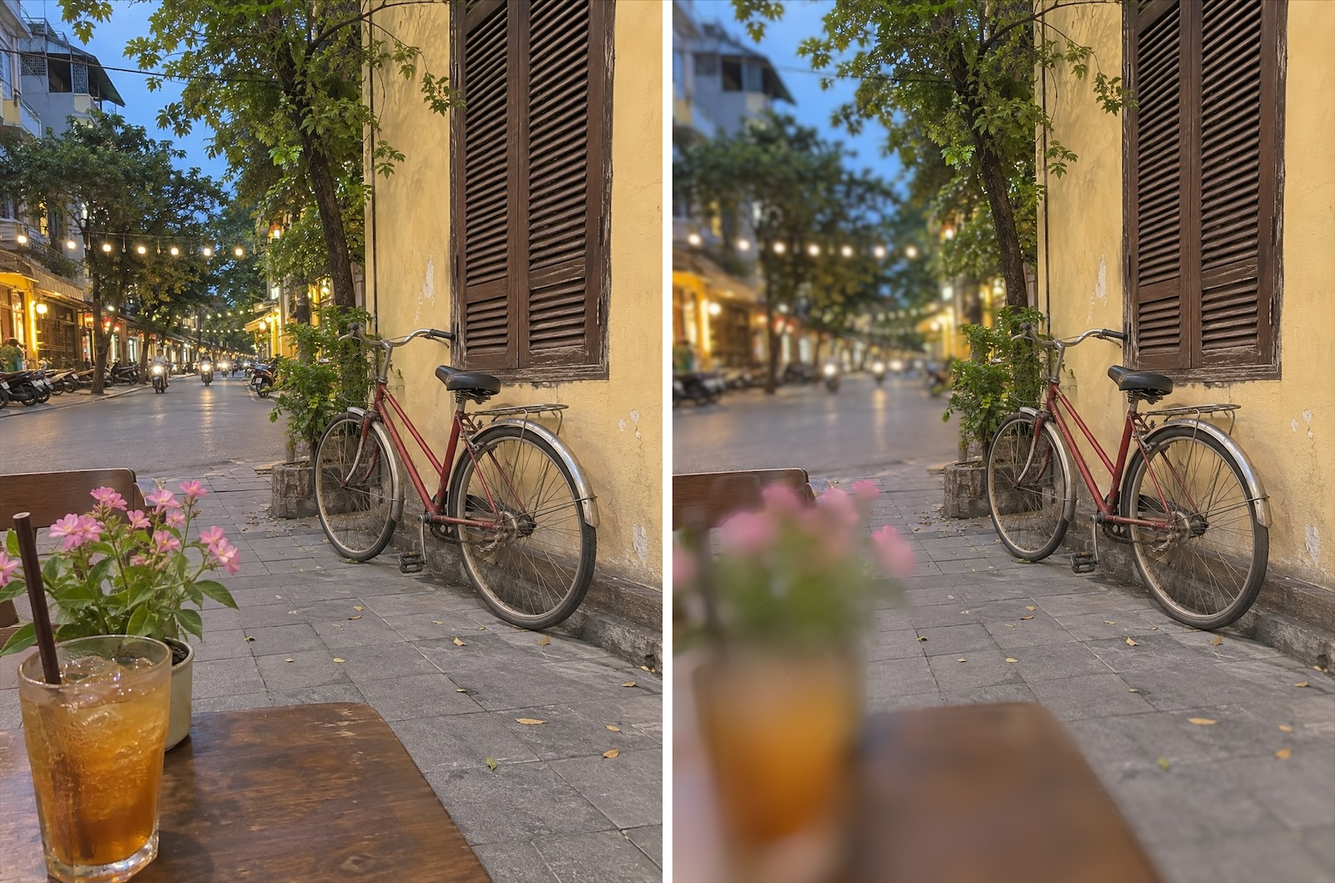
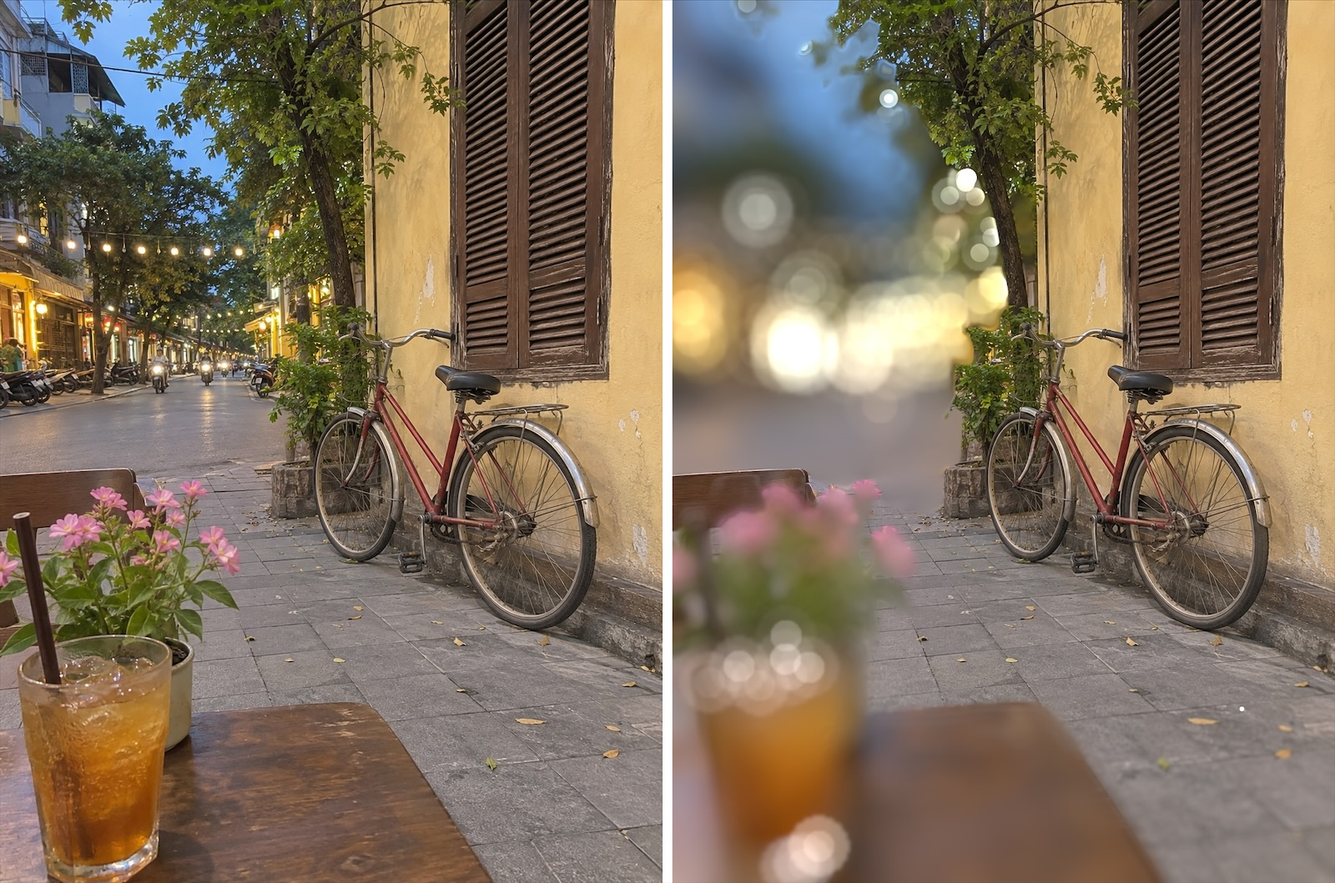
feat(diary): Lens Blur demo re-rendered with the stronger background and bokeh discs (#46)
The Lab and Lens Blur entry's café render now shows the far-side fix and
the warm bokeh discs. A second image compares the street lights at Bokeh
0 % and 100 %. The "tuning is next" note becomes two paragraphs on the
background fix, the lamps and the Bokeh slider. The new rows carry English
in the Vietnamese column until Vietnamese resumes.

Changed region(s): [[0.5, 0.0, 0.7812, 0.4674], [0.5, 0.6856, 0.625, 0.8102], [0.5625, 0.9037, 0.6562, 1.0]]

diff --git a/vi/diary/index.html b/vi/diary/index.html
@@ -56,7 +56,7 @@
 <section class="chapter" id="viewfinder-share" aria-labelledby="viewfinder-share-h"><h2 id="viewfinder-share-h"><span class="num">11</span>Khung ngắm, xem trước và chia sẻ</h2><article class="entry" id="2026-09-26-viewfinder-and-share"><p class="date"><time datetime="2026-09-26">26/9/2026</time></p><h3><a href="#2026-09-26-viewfinder-and-share">Một khung ngắm không cần kính, và chia sẻ kèm thông số</a></h3><p>Khung ngắm bỏ các lớp phủ gradient; giờ mỗi thông số tự mang bóng đổ của mình. Các góc ngắm ánh lên màu hổ phách khi chụp một tấm, rồi lắng xuống. Trong Cine chúng giữ màu hổ phách suốt lần quay và một viền đỏ chạy quanh khung; cầm ngang máy, một dải đầu với tên phim và nút REC chạy dọc mép trên.</p><p>Màn xem trước ảnh in công thức và màu phim lên tấm ảnh, với năm con số dọc mép dưới: ISO, cân bằng trắng, DR, vùng sáng và vùng tối.</p><p>Chia sẻ giờ có ba lựa chọn: <strong>Chỉ ảnh</strong>, <strong>Thẻ</strong> (tấm ảnh trên dải nền tối cùng công thức, màu phim và năm con số ấy) và <strong>Phủ chữ</strong> (nhãn của màn xem trước in thẳng vào ảnh). Thẻ và Phủ chữ đều bỏ dữ liệu vị trí trước khi chia sẻ.</p><figure class="portrait"><img src="/diary/img/15-share-card.jpg" alt="Ảnh một cô gái băng qua đường bên một cửa tiệm nhỏ, đặt trên tấm thẻ tối màu. Bên dưới: City Neg 400, Lost Summer Neg, và một hàng ghi ISO —, WB AWB R+2 B−3, DR 400, Highlight −2, Shadow +1.5." width="760" height="1560" loading="lazy" decoding="async"><figcaption>Một tấm Thẻ, vẽ theo bố cục của ứng dụng từ một bức ảnh tạo bằng máy, không phải ảnh chụp, với City Neg 400. Bức ảnh không có dữ liệu máy ảnh, nên ISO hiện dấu gạch, đúng như ứng dụng hiển thị.</figcaption></figure></article></section>
 <section class="chapter" id="film-roll" aria-labelledby="film-roll-h"><h2 id="film-roll-h"><span class="num">12</span>Cuộn phim</h2><p class="intro">Chế độ chụp thứ ba: lắp một màu phim, chụp cả cuộn mà không xem, rồi tráng.</p><article class="entry" id="2026-09-27-film-roll-mode"><p class="date"><time datetime="2026-09-27">27/9/2026</time></p><h3><a href="#2026-09-27-film-roll-mode">Film Roll: lắp phim, chụp mà không xem trước, rồi tráng</a></h3><p>Cuộn phim là chế độ thứ ba trên thanh chọn, cạnh Ảnh và Cine. Bạn chọn một màu phim (các màu miễn phí, hoặc mọi màu khi đã “Mở khóa tất cả”) và một cuộn 12, 24 hoặc 36 kiểu. Cuộn bị khóa vào màu phim đó cho đến khi tráng xong. Trong lúc chụp bạn chỉ thấy âm bản hoặc không thấy gì cả, và ô ảnh vừa chụp chỉ chạy hình cuộn phim lên kiểu.</p><p>Chụp hết cuộn thì bạn tráng nó. Bạn chọn viền (không, phong sương hoặc bản quét) và, nếu thích, dấu ngày lấy từ giờ chụp của từng kiểu. Dấu được vẽ bằng chữ số bảy đoạn màu hổ phách với quầng mờ, đúng cách máy compact ngày xưa in, theo bốn định dạng như <code>'26 9 27</code> hay <code>27 9 '26 14:32</code>.</p><p>Mọi cuộn đều tráng dưới một công thức lab duy nhất, chung cho mọi màu phim, chỉnh theo những gì một bản quét lab tốt sẽ cho:</p><ul><li>Màu +3 với colour chrome yếu và colour chrome blue yếu (phim đen trắng thì không có cả ba)</li><li>Vùng sáng −1, Vùng tối +0.5</li><li>Dải tương phản Tự động tối đa DR200, quyết theo từng kiểu</li><li>AWB không dịch màu, Độ trong −1, Độ nét −1</li><li>Hạt nhẹ và mịn (25 với phim màu, 30 với đen trắng), quầng sáng 10 và tối góc 10</li></ul><p>Ảnh trong cuộn chỉ sống trong cuộn của nó: chúng đứng ngoài lưới Ảnh và các con số đếm, còn chia sẻ dạng Thẻ hay Phủ chữ in tên phim và số kiểu thay cho thông số. Bản phát hành này cũng thêm chọn nhiều ảnh trong Ảnh, để lưu, chia sẻ hay xóa nhiều tấm một lần.</p><figure><img src="/diary/img/17-roll-contact-toffee.jpg" alt="Bảng ảnh mười hai kiểu trên Toffee Neg: hồ giữa núi đá vôi, một con thuyền neo, chiếc xuồng gỗ, một con đường, và bến lát gạch, mỗi tấm có dấu ngày màu hổ phách." width="1600" height="1100" loading="lazy" decoding="async"><figcaption>Một cuộn 12 kiểu Toffee Neg thật, chụp bằng điện thoại của mình bên hồ và tráng với viền phong sương cùng dấu ngày.</figcaption></figure><figure><img src="/diary/img/18-roll-dusk-prints.jpg" alt="Bốn tấm ảnh từ một cuộn Dusk: hồ nước dưới mái lá, chiếc phà cắm cờ đỏ, những nhà nổi dưới chân núi, và ngôi làng ấy nhìn qua vòm cây, mỗi tấm có dấu ngày." width="1600" height="1202" loading="lazy" decoding="async"><figcaption>Bốn kiểu từ một cuộn Dusk, tráng với viền phong sương và dấu <code>27 9 '26</code>.</figcaption></figure></article><article class="entry" id="2026-09-27-roll-end"><p class="date"><time datetime="2026-09-27">27/9/2026</time></p><h3><a href="#2026-09-27-roll-end">Đoạn cuối của một cuộn phim</a></h3><p>Ở ba kiểu cuối của cuộn (10–12, 22–24 hay 34–36), bộ đếm cạnh nút chụp chuyển hổ phách và nhấp nháy sau mỗi tấm. Có một tiếng click nhẹ khi bước vào ba kiểu cuối và một tiếng chắc hơn ở kiểu cuối cùng. Ở kiểu cuối, dòng chữ dưới con số ghi <strong>LAST FRAME</strong>, và phim lên kiểu chậm hơn, như thể cuộn phim đang căng dần. Không gì chặn việc chụp cả.</p><p>Chụp xong kiểu cuối, dải phim cuốn ngược vào đúng vỏ cuộn của màu phim ấy, chiếc vỏ xoay rồi lắng lại, và dòng <strong>Roll complete</strong> hiện dần cùng nút Tráng phim. Nó chỉ chạy một lần mỗi cuộn, và một cú chạm là bỏ qua được.</p></article><article class="entry" id="2026-09-27-strong-push-films"><p class="date"><time datetime="2026-09-27">27/9/2026</time></p><h3><a href="#2026-09-27-strong-push-films">Năm màu phim đẩy mạnh</a></h3><p>Năm phim âm bản màu mới đến cùng chế độ Cuộn phim. Như Olive Neg, mỗi cái nhuộm cả vùng tối, vùng trung và vùng sáng ở cường độ tối đa, trong khi phần lớn các màu phim chỉ nhuộm hai đầu.</p><div class="tablewrap"><table><thead><tr><th scope="col">Màu phim</th><th scope="col">ISO</th><th scope="col">Chất màu</th></tr></thead><tbody><tr><td>Lantern Neg</td><td>800</td><td>Vùng tối và trung ngả xanh ngọc-cyan, đèn và vùng sáng hổ phách, da vàng óng</td></tr><tr><td>Toffee Neg</td><td>200</td><td>Vùng trung màu kẹo bơ, vùng tối sô-cô-la, vùng sáng kem; lá vàng đất, trời xanh ngọc trầm</td></tr><tr><td>Guava Neg</td><td>400</td><td>Hồng-rose phủ mọi tông, xanh lá kaki, trời oải hương, đỏ thẫm</td></tr><tr><td>Ink Neg</td><td>400</td><td>Vùng tối và trung navy, vùng sáng kem, sắc đỏ ấm nổi trên nền xanh</td></tr><tr><td>Pollen Neg</td><td>200</td><td>Vàng nắng phủ mọi tông, tán lá xanh chanh, trời xanh thẫm, bóng tối mở</td></tr></tbody></table></div><p>Chúng chưa có công thức nào, nên danh sách Phim giờ hiện đủ mọi màu phim, không chỉ những cái đã có công thức. Mỗi cái vẫn chụp riêng được, lắp vào cuộn được, hoặc dùng để tạo công thức.</p><figure class="portrait"><img src="/diary/img/19-strong-films-street.jpg" alt="Cùng một con phố ven cảng với những ngôi nhà vàng, lặp lại bảy lần: không có phim, Olive Neg, Lantern Neg, Toffee Neg, Guava Neg, Ink Neg và Pollen Neg." width="1600" height="2140" loading="lazy" decoding="async"><figcaption>Một con phố ven cảng tạo bằng máy, không phải ảnh chụp, với không có phim, Olive Neg để đối chiếu, và năm màu phim mới ở cường độ tối đa.</figcaption></figure></article><article class="entry" id="2026-09-28-rewind-and-memory"><p class="date"><time datetime="2026-09-28">28/9/2026</time></p><h3><a href="#2026-09-28-rewind-and-memory">36 kiểu chụp thì ổn. Đến lúc tráng thì không.</a></h3><p>Cú tua phim giờ theo độ dài của cuộn: 1,8 giây cho 12 kiểu, 2,8 cho 24 và 3,6 cho 36, nhịp chậm–nhanh–chậm. Mỗi kiểu tua ngược cho một tiếng tách quay nhẹ, kèm tiếng gõ nhỏ vào vỏ cuộn. Vỏ cuộn giờ to hơn và nằm trên một tấm nền mềm với quầng hổ phách mờ.</p><p>Cú sửa quan trọng hơn nằm bên dưới. Tráng một cuộn 24 hay 36 kiểu làm app sập sau khoảng 15 kiểu. Mỗi kiểu dựng hai lần (bản xem trước, rồi bản đủ phân giải) trên các hàng đợi tuần tự chỉ trả buffer tạm khi chúng rảnh — mà trong lúc tráng cả cuộn thì chúng chẳng bao giờ rảnh. Khoảng 150 MB mỗi kiểu ProRAW chất đống cho đến khi iOS giết app. Giờ cả hai hàng đợi trả bộ nhớ sau từng kiểu.</p><div class="tablewrap"><table><thead><tr><th scope="col">Số kiểu đã tráng</th><th scope="col">0</th><th scope="col">6</th><th scope="col">12</th><th scope="col">15</th><th scope="col">36</th></tr></thead><tbody><tr><td>Trước</td><td>554 MB</td><td>1.5 GB</td><td>2.1 GB</td><td>2,3 GB, còn tăng</td><td>tráng được 35 / 36</td></tr><tr><td>Sau</td><td>552 MB</td><td>333 MB</td><td>208 MB</td><td>247 MB</td><td>đi ngang ~210–260 MB, đủ 36 / 36</td></tr></tbody></table></div><p class="note">Dấu chân bộ nhớ khi từng kiểu hiện ra, từ một bài thử tráng 36 kiểu. Những cuộn 24 và 36 kiểu thật giờ tráng được trên iPhone 16 Pro.</p><figure><img src="/diary/img/20-rewind-36.jpg" alt="Bốn chặng của dải phim cuốn vào vỏ cuộn: dải đầy đủ ở giây 0, cuốn một phần tư ở giây 1.2, cuốn gần hết ở giây 2.4, và chỉ còn chiếc vỏ đã xoay ở giây 3.6." width="1600" height="600" loading="lazy" decoding="async"><figcaption>Nhịp của một cú tua 36 kiểu, từ bản dựng thử làm trước khi vỏ cuộn được phóng to: 9 trên 36 tiếng tách ở giây 1,2, 26 ở giây 2,4, đủ 36 ở giây 3,6.</figcaption></figure></article></section>
 <section class="chapter" id="bracketing" aria-labelledby="bracketing-h"><h2 id="bracketing-h"><span class="num">13</span>Bracketing</h2><p class="intro">One press of the shutter, several photos of the same moment.</p><article class="entry" id="2026-11-09-bkt-one-press-three-photos"><p class="date"><time datetime="2026-11-09">9/11/2026</time></p><h3><a href="#2026-11-09-bkt-one-press-three-photos">BKT: one press, three photos</a></h3><p>Cameras have long had bracketing: one press of the shutter saves several versions of the same moment. Fonder now has its own in Still mode, called BKT. There are four kinds, picked on a new Bracketing page.</p><div class="tablewrap"><table><thead><tr><th scope="col">Kind</th><th scope="col">What changes across the three photos</th></tr></thead><tbody><tr><td>Recipe</td><td>The recipe: the one in the viewfinder and two picked on the page. One exposure, developed three ways.</td></tr><tr><td>AE</td><td>The exposure: three real exposures a stop apart, at −1, 0 and +1 EV.</td></tr><tr><td>ISO</td><td>The noise: the same brightness, with the ISO halved, kept and doubled and the shutter speed changed to match.</td></tr><tr><td>DR</td><td>The dynamic range: one exposure developed at DR100, DR200 and DR400, to choose afterwards how much highlight detail to keep.</td></tr></tbody></table></div><p>Recipe and DR bracketing fire the sensor once, so their three photos come from one original. Each photo still has its own file, but on the iPhone's storage the copies share the first one's data, so a bracketed moment takes one photo's worth of space. AE and ISO take three real exposures in one burst, with the flash off.</p><p>On the DR page, each tile is the current recipe rendered live at that setting, with red stripes where the photo would have no highlight detail left. BKT is part of the paid unlock, and works in Still only.</p></article></section>
-<section class="chapter" id="lab" aria-labelledby="lab-h"><h2 id="lab-h"><span class="num">14</span>Lab</h2><p class="intro">The editor's space for edits that go further than a recipe.</p><article class="entry" id="2026-11-17-lab-and-lens-blur"><p class="date"><time datetime="2026-11-17">17/11/2026</time></p><h3><a href="#2026-11-17-lab-and-lens-blur">Lab, and a lens blur from depth</a></h3><p>The editor's Adjust panel became <strong>Lab</strong>, with four tabs: Lights, Colour, Lens and Darkroom. It's for edits that go further than a recipe, and it's free. Two tools join it in this round:</p><ul><li><strong>HSL</strong>, in Colour: hue, saturation and luminance for eight colours. It works after the film's own colour, so it adjusts the look rather than fighting it.</li><li><strong>Curves</strong>, in Lights: a Master curve and red, green and blue curves, over a histogram of the edit. A black-and-white film offers the Master curve only.</li><li>Both are part of the recipe. Save as recipe keeps them, recipe text shares them, and the camera renders them too.</li></ul><p>The third tool is <strong>Lens Blur</strong>, in Lens. The background, the foreground or both fall away, as if shot with a wide-open lens. To do that it needs to know how far away each part of the picture is, and a photo carries no depth, so a small depth model runs on the phone. It takes about three and a half seconds to load on the Neural Engine, then 23 ms per photo; until it's loaded, a slower copy on the graphics chip answers in about half a second. The depth map is kept beside the photo, so the model runs once per photo.</p><p>Tapping or dragging on the photo chooses what stays sharp: the focus is read from the patch under the box. Then come the aperture, from f/1.4 to f/16, how deep the sharp band is, how much the front and the back blur, and how soft the edge between them is. A Focus zone view tints what's sharp green, what's in front red and what's behind blue.</p><p>The blur is built from Core Image's own filters. Behind the focus, each pixel is averaged only from what is behind it, so a sharp subject doesn't glow into its background. In front, what the foreground hides is filled in from around it first, so a blurred cup's edge spreads both ways over the table, as a lens draws it. Lens Blur is the one Pro tool in Lab.</p><p class="note">The model gives relative depth, which squeezes everything far away into a narrow range, so a distant street blurs less than it would through a real f/1.4 lens. Tuning that is next.</p><figure><img src="/diary/img/24-lens-blur.jpg" alt="A café table at dusk with a glass of iced tea and pink flowers, a red bicycle against a yellow wall, and a lit street behind, twice: as it came on the left, and with Lens Blur on the right." width="1600" height="1059" loading="lazy" decoding="async"><figcaption>A generated street, not a photograph: as it came on the left, and on the right with Lens Blur at f/1.4, focused on the bicycle, rendered by the app's own blur and depth model.</figcaption></figure></article></section>
+<section class="chapter" id="lab" aria-labelledby="lab-h"><h2 id="lab-h"><span class="num">14</span>Lab</h2><p class="intro">The editor's space for edits that go further than a recipe.</p><article class="entry" id="2026-11-17-lab-and-lens-blur"><p class="date"><time datetime="2026-11-17">17/11/2026</time></p><h3><a href="#2026-11-17-lab-and-lens-blur">Lab, and a lens blur from depth</a></h3><p>The editor's Adjust panel became <strong>Lab</strong>, with four tabs: Lights, Colour, Lens and Darkroom. It's for edits that go further than a recipe, and it's free. Two tools join it in this round:</p><ul><li><strong>HSL</strong>, in Colour: hue, saturation and luminance for eight colours. It works after the film's own colour, so it adjusts the look rather than fighting it.</li><li><strong>Curves</strong>, in Lights: a Master curve and red, green and blue curves, over a histogram of the edit. A black-and-white film offers the Master curve only.</li><li>Both are part of the recipe. Save as recipe keeps them, recipe text shares them, and the camera renders them too.</li></ul><p>The third tool is <strong>Lens Blur</strong>, in Lens. The background, the foreground or both fall away, as if shot with a wide-open lens. To do that it needs to know how far away each part of the picture is, and a photo carries no depth, so a small depth model runs on the phone. It takes about three and a half seconds to load on the Neural Engine, then 23 ms per photo; until it's loaded, a slower copy on the graphics chip answers in about half a second. The depth map is kept beside the photo, so the model runs once per photo.</p><p>Tapping or dragging on the photo chooses what stays sharp: the focus is read from the patch under the box. Then come the aperture, from f/1.4 to f/16, how deep the sharp band is, how much the front and the back blur, and how soft the edge between them is. A Focus zone view tints what's sharp green, what's in front red and what's behind blue.</p><p>The blur is built from Core Image's own filters. Behind the focus, each pixel is averaged only from what is behind it, so a sharp subject doesn't glow into its background. In front, what the foreground hides is filled in from around it first, so a blurred cup's edge spreads both ways over the table, as a lens draws it. Lens Blur is the one Pro tool in Lab.</p><p>Two fixes came the same evening, from trying it on a café photo. The depth map is relative, stretched per photo, so a glass of tea in the corner took most of its range and left the street behind the bicycle a tenth of the blur. The background is now measured from the focus, so it blurs the same whether or not something stands in front.</p><p>Lamps were the other. A photo stores light only up to white, so a bulb is a few clipped pixels, and spread over a wide disc it disappeared. Small highlights near white now get back the brightness clipping took from them, with the colour of their glow, before the blur, so they make warm discs. A <strong>Bokeh</strong> slider sets how bright those discs are, from none to double.</p><figure><img src="/diary/img/24-lens-blur.jpg" alt="A café table at dusk with a glass of iced tea and pink flowers, a red bicycle against a yellow wall, and a lit street behind, twice: as it came on the left, and with Lens Blur on the right." width="1600" height="1059" loading="lazy" decoding="async"><figcaption>A generated street, not a photograph: as it came on the left, and on the right with Lens Blur at f/1.4, focused on the bicycle, rendered by the app's own blur and depth model.</figcaption></figure><figure><img src="/diary/img/25-lens-blur-bokeh.jpg" alt="The string lights of the same street behind the tree, blurred twice: on the left as soft smudges, on the right as round, warm discs." width="1600" height="542" loading="lazy" decoding="async"><figcaption>The lights behind the bicycle at f/1.4: Bokeh at 0 % on the left, where they wash out, and at 100 % on the right.</figcaption></figure></article></section>
 <section class="chapter" id="website" aria-labelledby="website-h"><h2 id="website-h"><span class="num">15</span>Trang web</h2><article class="entry" id="2026-09-28-homepage"><p class="date"><time datetime="2026-09-28">28/9/2026</time></p><h3><a href="#2026-09-28-homepage">Trang chủ mới</a></h3><p>fondercam.online có trang chủ mới, bằng tiếng Anh và tiếng Việt. Nó kể ứng dụng như một cuộn phim: chụp, tráng, in. Ảnh trên trang là từ chính buổi chụp Cuộn phim của mình, với viền và dấu ngày của chúng. Font chữ được phục vụ từ chính trang web, và nhật ký này giờ dùng chung đầu trang với chân trang.</p><figure><img src="/diary/img/21-homepage.jpg" alt="Ảnh chia sẻ của Fonder: một vỏ cuộn Olive Neg, chữ Fonder, và tấm ảnh hồ nước có dấu ngày." width="1200" height="630" loading="lazy" decoding="async"><figcaption>Ảnh chia sẻ của trang chủ.</figcaption></figure></article><article class="entry" id="2026-09-30-explaining-backwards"><p class="date"><time datetime="2026-09-30">30/9/2026</time></p><h3><a href="#2026-09-30-explaining-backwards">Mình đã kể câu chuyện về Fonder theo cách ngược lại</a></h3><p>Trang chủ đầu tiên chủ yếu giải thích Fonder có thể làm gì: màu phim, công thức, tráng ảnh, các nút chỉnh. Tất cả đều đúng, nhưng lại chưa chạm vào điều quan trọng nhất.</p><p>Mình không làm Fonder vì iPhone cần thêm nhiều filter hơn. Mình làm nó vì camera điện thoại đã trở nên cực kỳ tốt, nhưng việc chụp ảnh lại dần mất đi một phần cảm giác thú vị vốn có. Trong lúc viết những ghi chú về marketing tuần này, cảm giác đó dần trở thành định hướng rõ ràng cho sản phẩm: cảm giác chụp phim, không chỉ là màu phim.</p><p>Vì thế website cũng thay đổi theo. Trang chủ giờ bắt đầu bằng những điều Fonder muốn mang trở lại — sự giới hạn, cảm giác chờ đợi, những khung hình không hoàn hảo, và niềm vui khi lần đầu xem trọn một cuộn ảnh. Các tính năng được đưa xuống phía sau, đúng với vai trò của chúng: để chứng minh cho lời hứa, chứ không phải trở thành chính lời quảng cáo. Trang Recipes cũng bắt đầu nói về khoảnh khắc trước khi nói về màu sắc và kỹ thuật, mỗi màu phim giờ đều có một câu ngắn về lúc nào bạn sẽ muốn chọn nó, và toàn bộ website giờ cũng đã có tiếng Việt, do chính mình dịch.</p><p>Vẫn là cùng một sản phẩm. Chỉ là lần này, câu chuyện được kể đúng thứ tự hơn.</p></article></section>
 
 </main>

diff --git a/diary/index.html b/diary/index.html
@@ -55,7 +55,7 @@
 <section class="chapter" id="viewfinder-share" aria-labelledby="viewfinder-share-h"><h2 id="viewfinder-share-h"><span class="num">11</span>Viewfinder, preview and share</h2><article class="entry" id="2026-09-26-viewfinder-and-share"><p class="date"><time datetime="2026-09-26">26 September 2026</time></p><h3><a href="#2026-09-26-viewfinder-and-share">A viewfinder without glass, and sharing with stats</a></h3><p>The viewfinder lost its gradient scrims; every readout now carries its own shadow. The corner marks grow amber when a photo is taken, then settle. In Cine they stay amber for the whole take and a red edge runs round the frame; held sideways, a header with the film name and a REC pill runs along the top.</p><p>The photo preview prints the recipe and film on the picture, with five figures along the bottom: ISO, white balance, DR, highlight and shadow.</p><p>Share now offers three choices: <strong>Photo only</strong>, <strong>Card</strong> (the photo on a dark band with the recipe, the film and those five figures) and <strong>Overlay</strong> (the preview's label burned in). Card and Overlay drop location data before sharing.</p><figure class="portrait"><img src="/diary/img/15-share-card.jpg" alt="A picture of a woman crossing a road by a small shop, on a dark card. Below it: City Neg 400, Lost Summer Neg, and a row reading ISO —, WB AWB R+2 B−3, DR 400, Highlight −2, Shadow +1.5." width="760" height="1560" loading="lazy" decoding="async"><figcaption>A Card, drawn to the app's layout from a generated picture, not a photograph, in City Neg 400. The picture has no camera data, so ISO shows a dash, as the app shows it.</figcaption></figure></article></section>
 <section class="chapter" id="film-roll" aria-labelledby="film-roll-h"><h2 id="film-roll-h"><span class="num">12</span>Film Roll</h2><p class="intro">A third camera mode: load a film, shoot the roll without seeing it, then develop.</p><article class="entry" id="2026-09-27-film-roll-mode"><p class="date"><time datetime="2026-09-27">27 September 2026</time></p><h3><a href="#2026-09-27-film-roll-mode">Film Roll: load, shoot blind, develop</a></h3><p>Film Roll is the third mode on the pill, next to Still and Cine. You pick a film (the free films, or every film with “Unlock everything”) and a roll of 12, 24 or 36 exposures. The roll stays locked to that film until it's developed. While shooting you see either negatives or no preview at all, and the last-shot tile only plays the film advancing.</p><p>When the roll is finished, you develop it. You choose a border (none, weathered or scanned) and, if you like, a date stamp from each frame's capture time. The stamp is drawn as amber seven-segment digits with a soft glow, the way old compact cameras printed it, in four formats such as <code>'26 9 27</code> or <code>27 9 '26 14:32</code>.</p><p>Every roll develops under one lab recipe, the same for every film, tuned for what a good lab scan would give:</p><ul><li>Colour +3 with weak colour chrome and weak colour chrome blue (none of the three on black-and-white film)</li><li>Highlight −1, Shadow +0.5</li><li>Dynamic Range Auto up to DR200, decided per frame</li><li>AWB with no shifts, Clarity −1, Sharpness −1</li><li>A light, fine grain (25 on colour, 30 on black and white), halation 10 and vignette 10</li></ul><p>Roll photos live only in their roll: they stay out of the Photos grid and its counts, and a Card or Overlay share prints the film name and frame number instead of settings. The same release added multi-select in Photos, to save, share or delete several photos at once.</p><figure><img src="/diary/img/17-roll-contact-toffee.jpg" alt="A contact sheet of twelve frames on Toffee Neg: a lake among limestone hills, a moored boat, a wooden skiff, a road, and a tiled jetty, each with an amber date stamp." width="1600" height="1100" loading="lazy" decoding="async"><figcaption>A real 12-exposure roll of Toffee Neg, shot on my phone at a lake and developed with the weathered border and the date stamp.</figcaption></figure><figure><img src="/diary/img/18-roll-dusk-prints.jpg" alt="Four prints from a Dusk roll: a lake under a thatched roof, a ferry with a red flag, floating houses below a mountain, and the same village through trees, each with a date stamp." width="1600" height="1202" loading="lazy" decoding="async"><figcaption>Four frames from a roll of Dusk, developed with the weathered border and the <code>27 9 '26</code> stamp.</figcaption></figure></article><article class="entry" id="2026-09-27-roll-end"><p class="date"><time datetime="2026-09-27">27 September 2026</time></p><h3><a href="#2026-09-27-roll-end">The end of a roll</a></h3><p>In the last three frames of a roll (10–12, 22–24 or 34–36) the counter beside the shutter turns amber and pulses after each shot. There's a light click on entering the last three frames and a firmer one on the last. On the last frame the line under the number reads <strong>LAST FRAME</strong>, and the film advance runs slower, as if the film were getting tight. Nothing blocks shooting.</p><p>When the last frame is taken, the strip winds back into the film's own canister, the canister turns and settles, and <strong>Roll complete</strong> fades in with the Develop button. It plays once per roll, and a tap skips it.</p></article><article class="entry" id="2026-09-27-strong-push-films"><p class="date"><time datetime="2026-09-27">27 September 2026</time></p><h3><a href="#2026-09-27-strong-push-films">Five strong-push films</a></h3><p>Five new colour negatives arrived with Roll mode. Like Olive Neg, each one tints the shadows, the midtones and the highlights at full strength, where most films only tint the ends.</p><div class="tablewrap"><table><thead><tr><th scope="col">Film</th><th scope="col">ISO</th><th scope="col">Look</th></tr></thead><tbody><tr><td>Lantern Neg</td><td>800</td><td>Teal-cyan shadows and midtones, amber lamps and highlights, gold skin</td></tr><tr><td>Toffee Neg</td><td>200</td><td>Toffee midtones, chocolate shadows, cream highlights; ochre leaves, a dusty teal sky</td></tr><tr><td>Guava Neg</td><td>400</td><td>Pink-rose through every tone, khaki greens, a lavender sky, crimson reds</td></tr><tr><td>Ink Neg</td><td>400</td><td>Navy shadows and midtones, cream highlights, warm reds against the blue</td></tr><tr><td>Pollen Neg</td><td>200</td><td>Sunny yellow over every tone, lime foliage, a deep blue sky, open shadows</td></tr></tbody></table></div><p>They have no recipes yet, so the Films list now shows every film, not only those with a recipe. Each can still be shot on its own, loaded into a roll, or used to make a recipe.</p><figure class="portrait"><img src="/diary/img/19-strong-films-street.jpg" alt="The same harbour street of yellow houses seven times: no film, Olive Neg, Lantern Neg, Toffee Neg, Guava Neg, Ink Neg and Pollen Neg." width="1600" height="2140" loading="lazy" decoding="async"><figcaption>A generated harbour street, not a photograph, with no film, Olive Neg for reference, and the five new films at full strength.</figcaption></figure></article><article class="entry" id="2026-09-28-rewind-and-memory"><p class="date"><time datetime="2026-09-28">28 September 2026</time></p><h3><a href="#2026-09-28-rewind-and-memory">36 shots worked. Developing them didn't.</a></h3><p>The rewind now follows the length of the roll: 1.8 s for 12 exposures, 2.8 s for 24 and 3.6 s for 36, easing slow–fast–slow. Each frame wound back gives one light crank tick, with a small knock on the canister. The canister is bigger now and sits on a soft panel with a faint amber glow.</p><p>The more important fix was underneath. Developing a 24 or 36-exposure roll crashed the app after about 15 frames. Each frame renders twice (a preview, then full resolution) on serial queues that only freed their temporary buffers when they went idle, and during a roll they never do. About 150 MB per ProRAW frame piled up until iOS killed the app. Now both queues release memory after every frame.</p><div class="tablewrap"><table><thead><tr><th scope="col">Frames developed</th><th scope="col">0</th><th scope="col">6</th><th scope="col">12</th><th scope="col">15</th><th scope="col">36</th></tr></thead><tbody><tr><td>Before</td><td>554 MB</td><td>1.5 GB</td><td>2.1 GB</td><td>2.3 GB, climbing</td><td>35 of 36 developed</td></tr><tr><td>After</td><td>552 MB</td><td>333 MB</td><td>208 MB</td><td>247 MB</td><td>flat ~210–260 MB, 36 of 36</td></tr></tbody></table></div><p class="note">Memory footprint as each frame lands, from a test that develops 36 frames. Real 24 and 36-exposure rolls now develop on an iPhone 16 Pro.</p><figure><img src="/diary/img/20-rewind-36.jpg" alt="Four stages of a film strip winding into a canister: full strip at 0 seconds, a quarter wound at 1.2 seconds, mostly wound at 2.4 seconds, and only the turned canister at 3.6 seconds." width="1600" height="600" loading="lazy" decoding="async"><figcaption>The timing of a 36-exposure rewind, from a test render made before the canister grew: 9 of 36 ticks at 1.2 s, 26 at 2.4 s, all 36 at 3.6 s.</figcaption></figure></article></section>
 <section class="chapter" id="bracketing" aria-labelledby="bracketing-h"><h2 id="bracketing-h"><span class="num">13</span>Bracketing</h2><p class="intro">One press of the shutter, several photos of the same moment.</p><article class="entry" id="2026-11-09-bkt-one-press-three-photos"><p class="date"><time datetime="2026-11-09">9 November 2026</time></p><h3><a href="#2026-11-09-bkt-one-press-three-photos">BKT: one press, three photos</a></h3><p>Cameras have long had bracketing: one press of the shutter saves several versions of the same moment. Fonder now has its own in Still mode, called BKT. There are four kinds, picked on a new Bracketing page.</p><div class="tablewrap"><table><thead><tr><th scope="col">Kind</th><th scope="col">What changes across the three photos</th></tr></thead><tbody><tr><td>Recipe</td><td>The recipe: the one in the viewfinder and two picked on the page. One exposure, developed three ways.</td></tr><tr><td>AE</td><td>The exposure: three real exposures a stop apart, at −1, 0 and +1 EV.</td></tr><tr><td>ISO</td><td>The noise: the same brightness, with the ISO halved, kept and doubled and the shutter speed changed to match.</td></tr><tr><td>DR</td><td>The dynamic range: one exposure developed at DR100, DR200 and DR400, to choose afterwards how much highlight detail to keep.</td></tr></tbody></table></div><p>Recipe and DR bracketing fire the sensor once, so their three photos come from one original. Each photo still has its own file, but on the iPhone's storage the copies share the first one's data, so a bracketed moment takes one photo's worth of space. AE and ISO take three real exposures in one burst, with the flash off.</p><p>On the DR page, each tile is the current recipe rendered live at that setting, with red stripes where the photo would have no highlight detail left. BKT is part of the paid unlock, and works in Still only.</p></article></section>
-<section class="chapter" id="lab" aria-labelledby="lab-h"><h2 id="lab-h"><span class="num">14</span>Lab</h2><p class="intro">The editor's space for edits that go further than a recipe.</p><article class="entry" id="2026-11-17-lab-and-lens-blur"><p class="date"><time datetime="2026-11-17">17 November 2026</time></p><h3><a href="#2026-11-17-lab-and-lens-blur">Lab, and a lens blur from depth</a></h3><p>The editor's Adjust panel became <strong>Lab</strong>, with four tabs: Lights, Colour, Lens and Darkroom. It's for edits that go further than a recipe, and it's free. Two tools join it in this round:</p><ul><li><strong>HSL</strong>, in Colour: hue, saturation and luminance for eight colours. It works after the film's own colour, so it adjusts the look rather than fighting it.</li><li><strong>Curves</strong>, in Lights: a Master curve and red, green and blue curves, over a histogram of the edit. A black-and-white film offers the Master curve only.</li><li>Both are part of the recipe. Save as recipe keeps them, recipe text shares them, and the camera renders them too.</li></ul><p>The third tool is <strong>Lens Blur</strong>, in Lens. The background, the foreground or both fall away, as if shot with a wide-open lens. To do that it needs to know how far away each part of the picture is, and a photo carries no depth, so a small depth model runs on the phone. It takes about three and a half seconds to load on the Neural Engine, then 23 ms per photo; until it's loaded, a slower copy on the graphics chip answers in about half a second. The depth map is kept beside the photo, so the model runs once per photo.</p><p>Tapping or dragging on the photo chooses what stays sharp: the focus is read from the patch under the box. Then come the aperture, from f/1.4 to f/16, how deep the sharp band is, how much the front and the back blur, and how soft the edge between them is. A Focus zone view tints what's sharp green, what's in front red and what's behind blue.</p><p>The blur is built from Core Image's own filters. Behind the focus, each pixel is averaged only from what is behind it, so a sharp subject doesn't glow into its background. In front, what the foreground hides is filled in from around it first, so a blurred cup's edge spreads both ways over the table, as a lens draws it. Lens Blur is the one Pro tool in Lab.</p><p class="note">The model gives relative depth, which squeezes everything far away into a narrow range, so a distant street blurs less than it would through a real f/1.4 lens. Tuning that is next.</p><figure><img src="/diary/img/24-lens-blur.jpg" alt="A café table at dusk with a glass of iced tea and pink flowers, a red bicycle against a yellow wall, and a lit street behind, twice: as it came on the left, and with Lens Blur on the right." width="1600" height="1059" loading="lazy" decoding="async"><figcaption>A generated street, not a photograph: as it came on the left, and on the right with Lens Blur at f/1.4, focused on the bicycle, rendered by the app's own blur and depth model.</figcaption></figure></article></section>
+<section class="chapter" id="lab" aria-labelledby="lab-h"><h2 id="lab-h"><span class="num">14</span>Lab</h2><p class="intro">The editor's space for edits that go further than a recipe.</p><article class="entry" id="2026-11-17-lab-and-lens-blur"><p class="date"><time datetime="2026-11-17">17 November 2026</time></p><h3><a href="#2026-11-17-lab-and-lens-blur">Lab, and a lens blur from depth</a></h3><p>The editor's Adjust panel became <strong>Lab</strong>, with four tabs: Lights, Colour, Lens and Darkroom. It's for edits that go further than a recipe, and it's free. Two tools join it in this round:</p><ul><li><strong>HSL</strong>, in Colour: hue, saturation and luminance for eight colours. It works after the film's own colour, so it adjusts the look rather than fighting it.</li><li><strong>Curves</strong>, in Lights: a Master curve and red, green and blue curves, over a histogram of the edit. A black-and-white film offers the Master curve only.</li><li>Both are part of the recipe. Save as recipe keeps them, recipe text shares them, and the camera renders them too.</li></ul><p>The third tool is <strong>Lens Blur</strong>, in Lens. The background, the foreground or both fall away, as if shot with a wide-open lens. To do that it needs to know how far away each part of the picture is, and a photo carries no depth, so a small depth model runs on the phone. It takes about three and a half seconds to load on the Neural Engine, then 23 ms per photo; until it's loaded, a slower copy on the graphics chip answers in about half a second. The depth map is kept beside the photo, so the model runs once per photo.</p><p>Tapping or dragging on the photo chooses what stays sharp: the focus is read from the patch under the box. Then come the aperture, from f/1.4 to f/16, how deep the sharp band is, how much the front and the back blur, and how soft the edge between them is. A Focus zone view tints what's sharp green, what's in front red and what's behind blue.</p><p>The blur is built from Core Image's own filters. Behind the focus, each pixel is averaged only from what is behind it, so a sharp subject doesn't glow into its background. In front, what the foreground hides is filled in from around it first, so a blurred cup's edge spreads both ways over the table, as a lens draws it. Lens Blur is the one Pro tool in Lab.</p><p>Two fixes came the same evening, from trying it on a café photo. The depth map is relative, stretched per photo, so a glass of tea in the corner took most of its range and left the street behind the bicycle a tenth of the blur. The background is now measured from the focus, so it blurs the same whether or not something stands in front.</p><p>Lamps were the other. A photo stores light only up to white, so a bulb is a few clipped pixels, and spread over a wide disc it disappeared. Small highlights near white now get back the brightness clipping took from them, with the colour of their glow, before the blur, so they make warm discs. A <strong>Bokeh</strong> slider sets how bright those discs are, from none to double.</p><figure><img src="/diary/img/24-lens-blur.jpg" alt="A café table at dusk with a glass of iced tea and pink flowers, a red bicycle against a yellow wall, and a lit street behind, twice: as it came on the left, and with Lens Blur on the right." width="1600" height="1059" loading="lazy" decoding="async"><figcaption>A generated street, not a photograph: as it came on the left, and on the right with Lens Blur at f/1.4, focused on the bicycle, rendered by the app's own blur and depth model.</figcaption></figure><figure><img src="/diary/img/25-lens-blur-bokeh.jpg" alt="The string lights of the same street behind the tree, blurred twice: on the left as soft smudges, on the right as round, warm discs." width="1600" height="542" loading="lazy" decoding="async"><figcaption>The lights behind the bicycle at f/1.4: Bokeh at 0 % on the left, where they wash out, and at 100 % on the right.</figcaption></figure></article></section>
 <section class="chapter" id="website" aria-labelledby="website-h"><h2 id="website-h"><span class="num">15</span>The website</h2><article class="entry" id="2026-09-28-homepage"><p class="date"><time datetime="2026-09-28">28 September 2026</time></p><h3><a href="#2026-09-28-homepage">A new homepage</a></h3><p>fondercam.online has a new homepage, in English and Vietnamese. It tells the app as one roll of film: shoot, develop, print. The pictures are from my own Film Roll shoot, with their borders and date stamps. The fonts are served from the site itself, and this diary now shares its header and footer.</p><figure><img src="/diary/img/21-homepage.jpg" alt="The Fonder share card: an Olive Neg canister, the word Fonder, and a lake print with a date stamp." width="1200" height="630" loading="lazy" decoding="async"><figcaption>The homepage's share image.</figcaption></figure></article><article class="entry" id="2026-09-30-explaining-backwards"><p class="date"><time datetime="2026-09-30">30 September 2026</time></p><h3><a href="#2026-09-30-explaining-backwards">I was explaining Fonder backwards</a></h3><p>The first homepage mostly explained what Fonder could do: films, recipes, developing, controls. All true, and all beside the point.</p><p>I'm not building Fonder because iPhones need more filters. I'm building it because phone cameras became incredibly good while taking photos somehow became less fun. Somewhere in writing marketing notes this week, that stopped being a feeling and became the actual brief: the feeling of film, not just the look.</p><p>So the site changed too. The homepage now starts with what Fonder tries to bring back — limitation, anticipation, imperfection, and seeing a whole roll at once — and the features moved down a level, where they belong: as proof, not as the pitch. The recipes page learned to talk about moments before colour science, every film got a line about when you'd load it, and the whole site now reads in Vietnamese as well, my own translation.</p><p>Same product. Better order.</p></article></section>
 
 </main>
